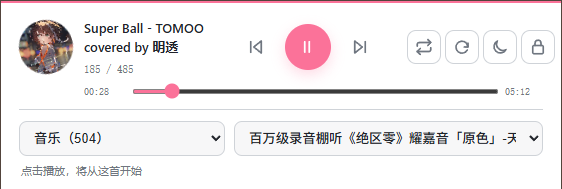
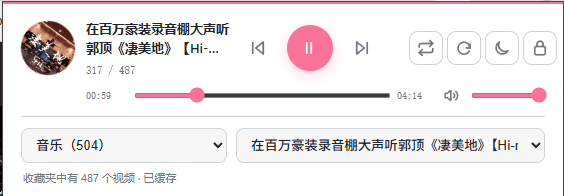
Fix volume targeting and refresh screenshots

diff --git a/content.js b/content.js
@@ -1,5 +1,59 @@
 let video;
-function report(extra={}){if(video)chrome.runtime.sendMessage({type:'mediaState',bvid:location.pathname.match(/\/video\/(BV[\w]+)/i)?.[1],videoTitle:document.querySelector('h1.video-title,.video-title')?.textContent?.trim()||document.title.replace(/_哔哩哔哩_bilibili$/,''),cover:document.querySelector('meta[property="og:image"]')?.content,paused:video.paused,currentTime:video.currentTime,duration:video.duration||0,volume:video.muted?0:video.volume,blocked:false,...extra})}
-async function tryPlay(){try{await video.play();report()}catch{report({blocked:true})}}
-function attach(){const found=document.querySelector('video');if(!found||found===video)return;video=found;video.addEventListener('ended',()=>chrome.runtime.sendMessage({type:'ended'}));video.addEventListener('play',report);video.addEventListener('pause',report);video.addEventListener('timeupdate',report);video.addEventListener('volumechange',report);tryPlay()}
-chrome.runtime.onMessage.addListener(m=>{if(!video)return;if(m.type==='toggle')video.paused?tryPlay():video.pause();if(m.type==='seek')video.currentTime=video.duration*m.ratio;if(m.type==='volume'){video.muted=m.value===0;video.volume=m.value}});attach();new MutationObserver(attach).observe(document.documentElement,{childList:true,subtree:true});
+
+function findVideo() {
+  return document.querySelector('video.bpx-player-video, .bpx-player-video-wrap video, .bilibili-player-video video')
+    || [...document.querySelectorAll('video')].find(item => !item.paused)
+    || document.querySelector('video');
+}
+
+function report(extra = {}) {
+  const active = findVideo();
+  if (!active) return;
+  video = active;
+  chrome.runtime.sendMessage({
+    type: 'mediaState',
+    bvid: location.pathname.match(/\/video\/(BV[\w]+)/i)?.[1],
+    videoTitle: document.querySelector('h1.video-title,.video-title')?.textContent?.trim() || document.title.replace(/_哔哩哔哩_bilibili$/, ''),
+    cover: document.querySelector('meta[property="og:image"]')?.content,
+    paused: active.paused,
+    currentTime: active.currentTime,
+    duration: active.duration || 0,
+    volume: active.muted ? 0 : active.volume,
+    blocked: false,
+    ...extra
+  });
+}
+
+async function tryPlay() {
+  try { await video.play(); report(); }
+  catch { report({ blocked: true }); }
+}
+
+function attach() {
+  const found = findVideo();
+  if (!found || found === video) return;
+  video = found;
+  video.addEventListener('ended', () => chrome.runtime.sendMessage({ type: 'ended' }));
+  video.addEventListener('play', report);
+  video.addEventListener('pause', report);
+  video.addEventListener('timeupdate', report);
+  video.addEventListener('volumechange', report);
+  tryPlay();
+}
+
+chrome.runtime.onMessage.addListener(message => {
+  const active = findVideo();
+  if (!active) return;
+  video = active;
+  if (message.type === 'toggle') video.paused ? tryPlay() : video.pause();
+  if (message.type === 'seek') video.currentTime = video.duration * message.ratio;
+  if (message.type === 'volume') {
+    const value = Math.max(0, Math.min(1, message.value));
+    video.volume = value;
+    video.muted = value === 0;
+    report();
+  }
+});
+
+attach();
+new MutationObserver(attach).observe(document.documentElement, { childList: true, subtree: true });

diff --git a/worker.js b/worker.js
@@ -60,7 +60,11 @@ chrome.runtime.onMessage.addListener((message, sender, respond) => {
     else if (message.type === 'toggle') {
       if (state.tabId) chrome.tabs.sendMessage(state.tabId, message).catch(() => {});
       else await play(0, state.index);
-    } else if ((message.type === 'seek' || message.type === 'volume') && state.tabId) chrome.tabs.sendMessage(state.tabId, message).catch(() => {});
+    } else if (message.type === 'volume') {
+      state.volume = message.value;
+      await save();
+      if (state.tabId) chrome.tabs.sendMessage(state.tabId, message).catch(() => {});
+    } else if (message.type === 'seek' && state.tabId) chrome.tabs.sendMessage(state.tabId, message).catch(() => {});
     else if (message.type === 'mediaState' && sender.tab?.id === state.tabId) { syncMedia(message); await save(); }
     respond({ ok: true });
   })();
